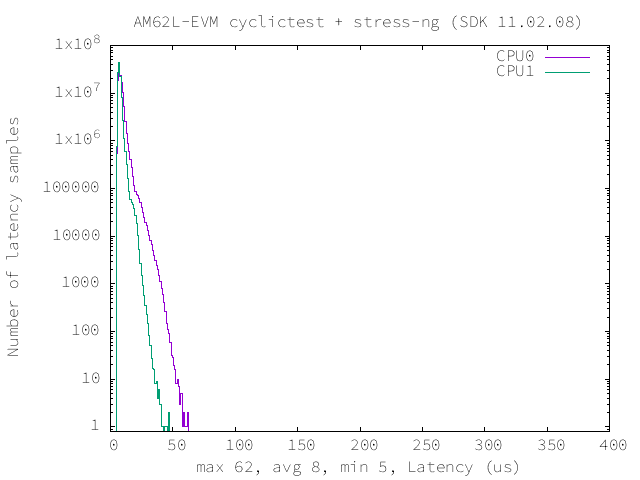
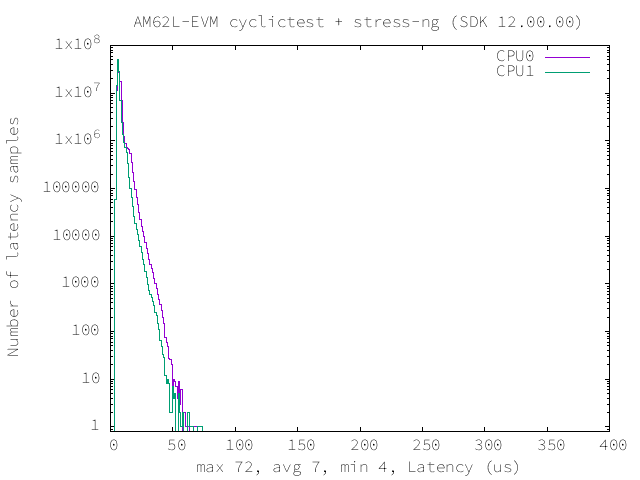
feat(AM62LX): Add PREEMPT_RT perf numbers
Add the AM62Lx latency numbers for the SDK 12.0 release

diff --git a/source/devices/AM62LX/linux/RT_Linux_Performance_Guide.rst b/source/devices/AM62LX/linux/RT_Linux_Performance_Guide.rst
@@ -36,4 +36,49 @@ https://e2e.ti.com/ or https://support.ti.com/
 System Benchmarks
 *****************
 
-|
+Stress-ng and Cyclic Test
+=========================
+
+.. _RT-linux-performance:
+
+stress-ng (next-generation) will stress test a embedded platform in
+various selectable ways. It was designed to exercise various physical
+subsystems as well as the various operating system kernel interfaces.
+stress-ng can also measure test throughput rates; this can be useful to
+observe performance changes across different operating system or types
+of hardware.
+
+Cyclictest is most commonly used for benchmarking RT systems. It is one
+of the most frequently used tools for evaluating the relative
+performance of real-time systems. Some performance tests which use
+Cyclictest are System benchmarking, Latency debugging with tracing and
+-approximating application performance.
+
+Test commands used for running stress-ng and cyclictest together
+
+.. code:: console
+
+   stress-ng --cpu-method=all -c 4 &
+   cyclictest -m -Sp80 -D6h -h400 -i200 -M -q
+
+The following summarizes the latencies observed using the yocto based
+default SDK image:
+
+.. note::
+
+   A known issue in this SDK release is affecting this benchmark.
+   Using OP-TEE's PRNG drivers rather than the hardware accelerated TRNG
+   drivers restores the context switch latencies to the values you see
+   here.
+
+   More information on switching to the PRNG drivers can be found in the
+   Foundational Components section, here :ref:`building-optee-with-prng`
+
+.. csv-table::
+   :header: "Latencies","CPU 0","CPU 1"
+
+   "Minimum (usec)","4","4"
+   "Average (usec)","7","6"
+   "Maximum (usec)","68","72"
+
+.. image:: img/rt-cpu-method-all-latency-histogram.png
